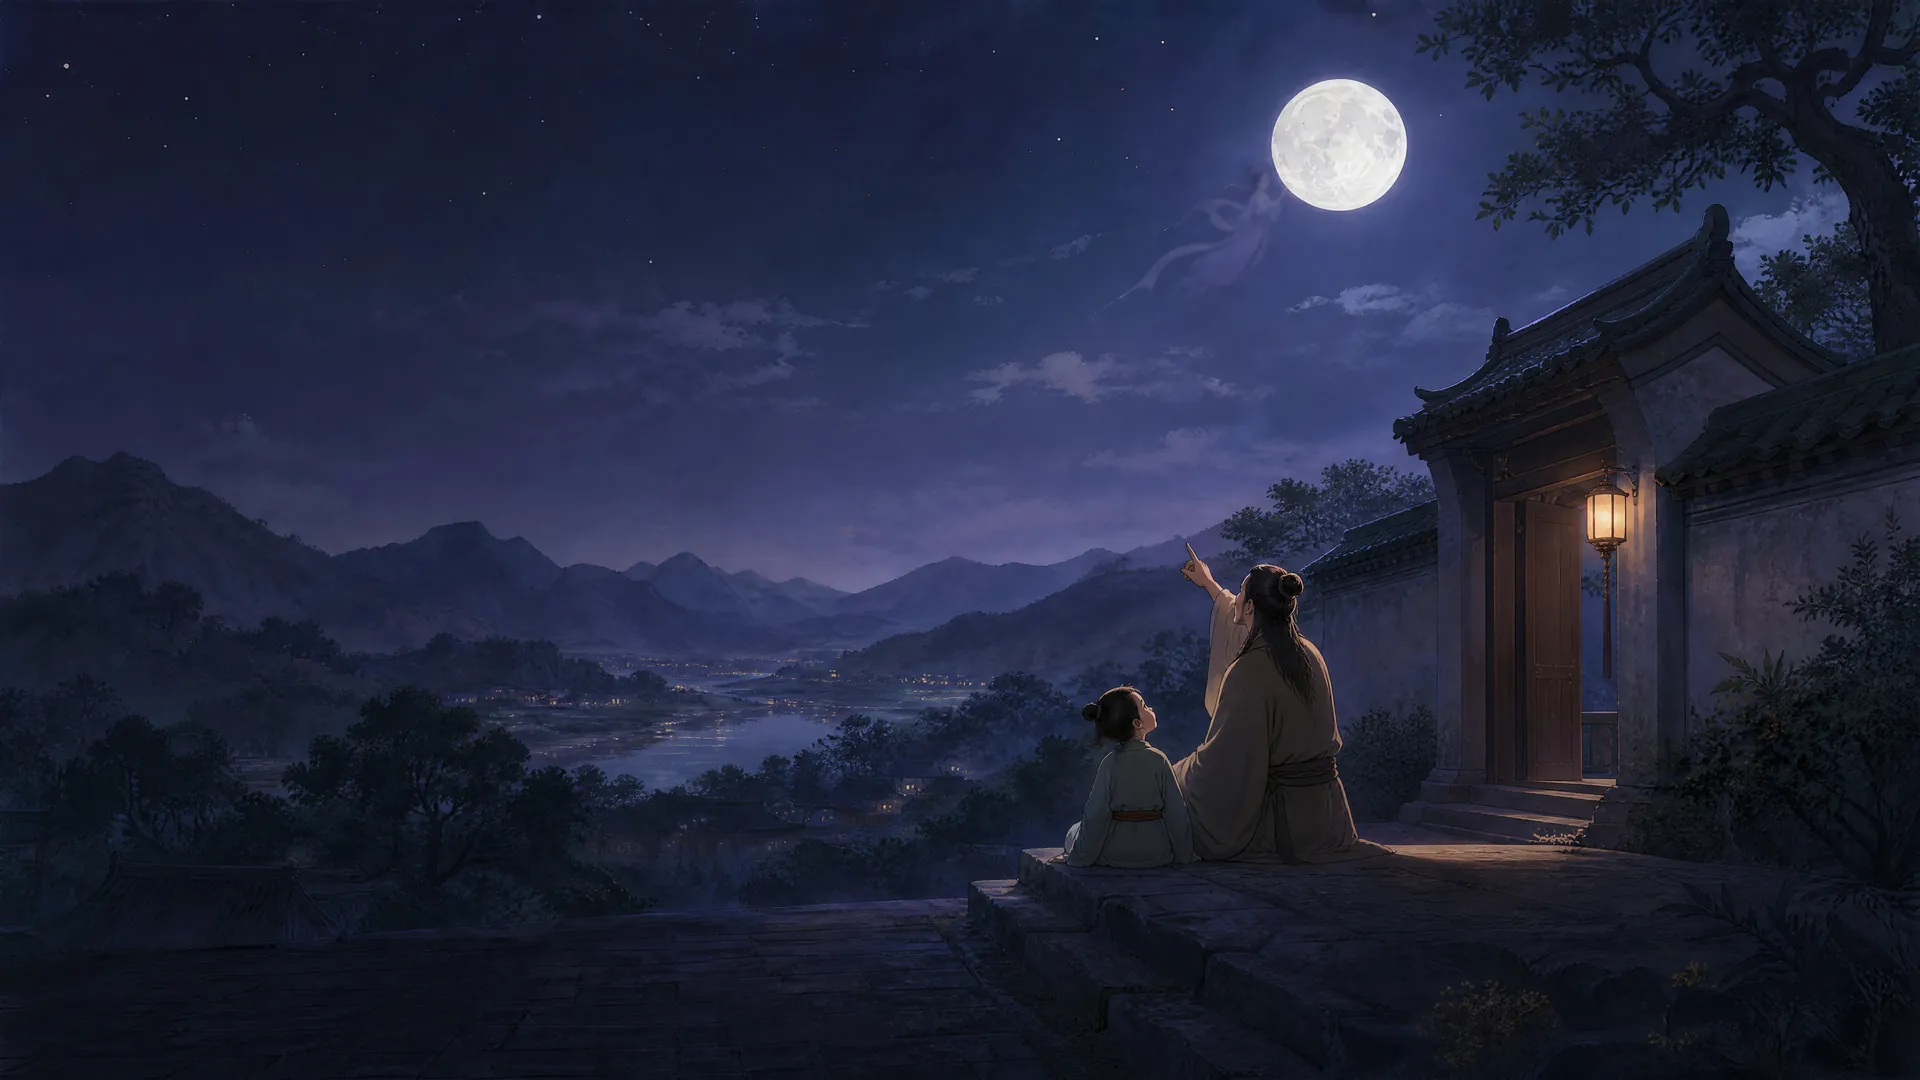
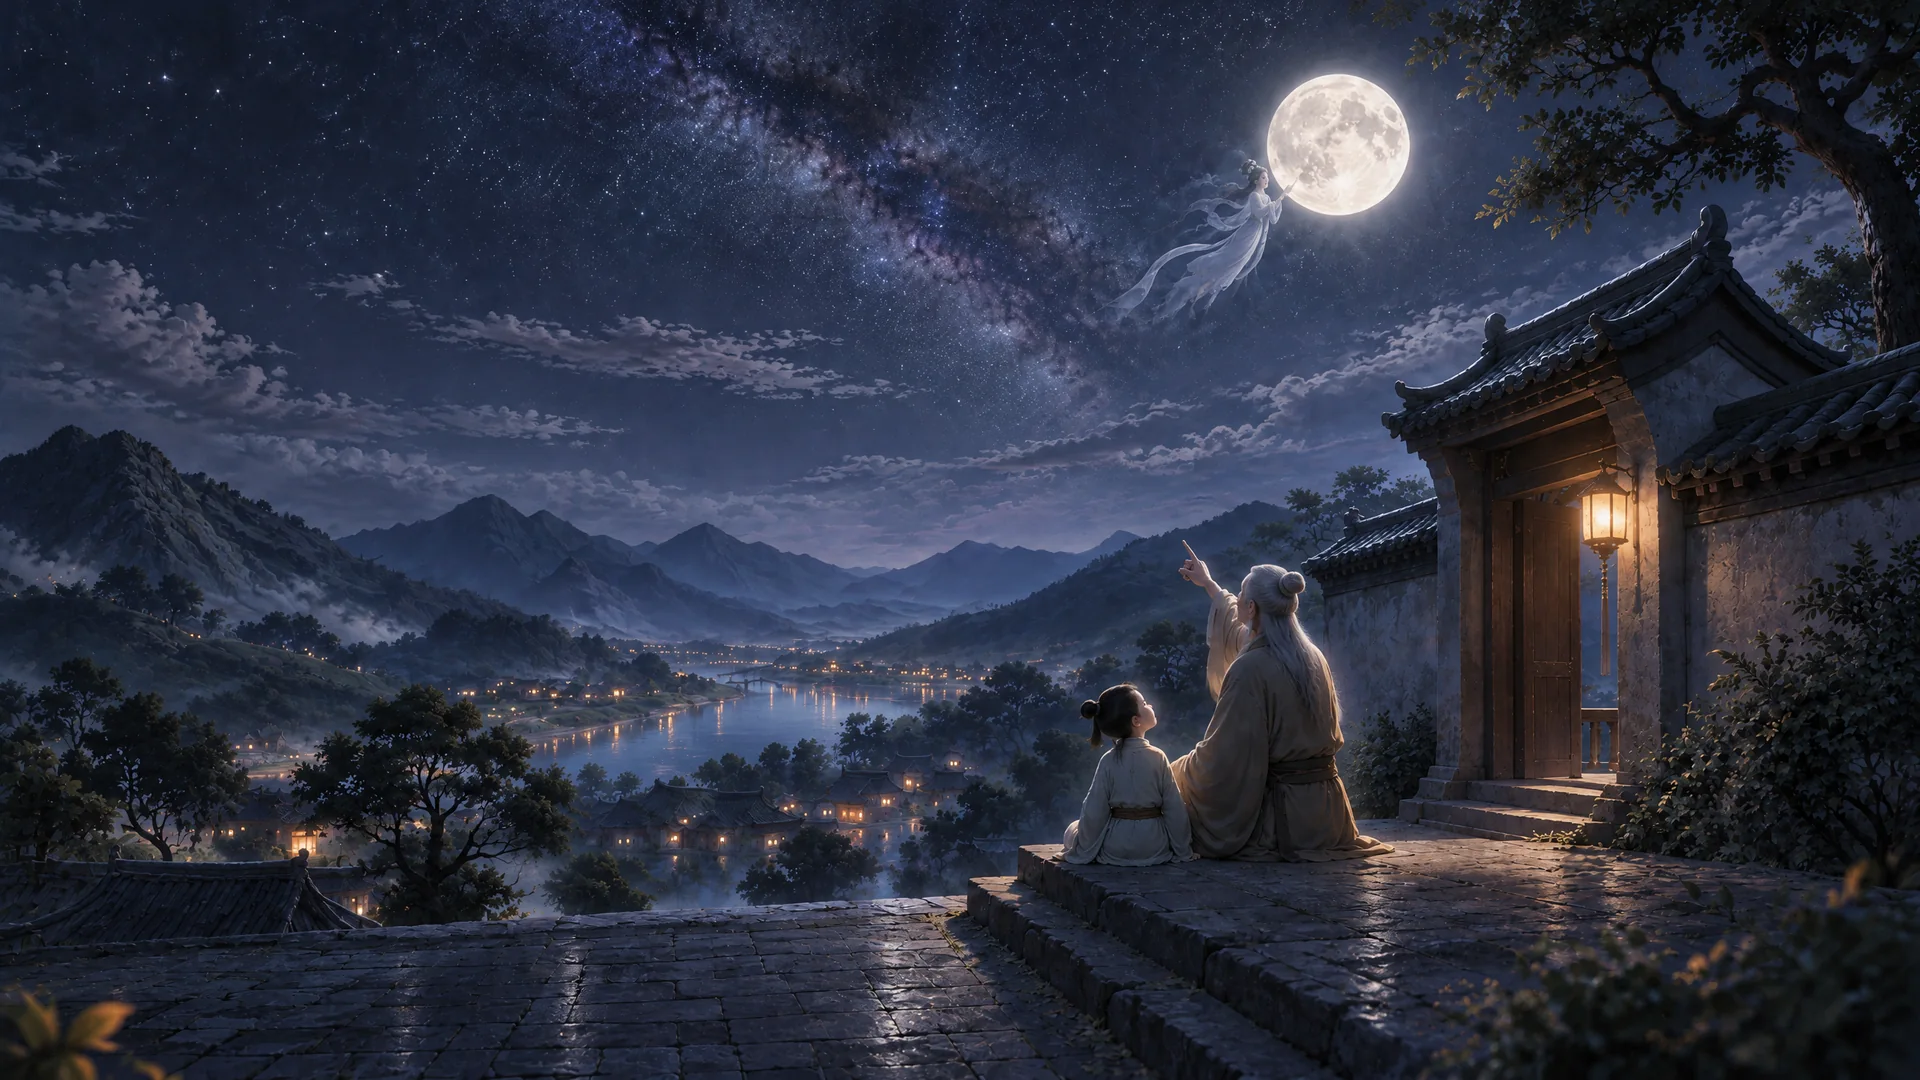
Integrate new opening courtyard and dedicated panoramic epilogue artwork

diff --git a/story.js b/story.js
@@ -1,11 +1,11 @@
 /* 整屏背景使用压缩 WebP；同名 JPG 原画保留在 assets。 */
 window.ARTWORK = {
-  cover:'assets/00-cover.webp?v=art-webp-20261016', ancient:'assets/01-ancient.webp?v=art-webp-20261016', palace:'assets/02-palace.webp?v=art-webp-20261016', palaceEmpty:'assets/02-palace-empty.webp?v=art-webp-20261016', control:'assets/03-control.webp?v=art-webp-20261016',
-  cosmos:'assets/04-cosmos.webp?v=art-webp-20261016', surface:'assets/05-surface.webp?v=art-webp-20261016', finale:'assets/06-finale.webp?v=art-webp-20261016'
+  cover:'assets/00-cover.webp?v=art-webp-20261016', ancient:'assets/01-ancient.webp?v=bookends-20261016', palace:'assets/02-palace.webp?v=art-webp-20261016', palaceEmpty:'assets/02-palace-empty.webp?v=art-webp-20261016', control:'assets/03-control.webp?v=art-webp-20261016',
+  cosmos:'assets/04-cosmos.webp?v=art-webp-20261016', surface:'assets/05-surface.webp?v=art-webp-20261016', finale:'assets/06-finale.webp?v=art-webp-20261016', epilogue:'assets/07-epilogue.webp?v=bookends-20261016'
 };
 window.CHARACTERS = {operator:'assets/characters/operator.webp?v=preload-lite-20261016',change:'assets/characters/change.webp?v=preload-lite-20261016'};
 window.CHAPTERS = ['月下的故事','地面的守候','走近真实的月亮','写给人间的回信'];
-window.LOCATIONS = {cover:'九州山河 · 月出之时',ancient:'九州山河 · 月出之时',palace:'广寒月宫 · 千载守望',palaceEmpty:'广寒月宫 · 千载守望',control:'华夏测控站 · 地月之间',cosmos:'宇宙深空 · 星河赴约',surface:'月球表面 · 今夕归期',finale:'星月同辉 · 千年梦圆'};
+window.LOCATIONS = {cover:'九州山河 · 月出之时',ancient:'九州山河 · 月出之时',palace:'广寒月宫 · 千载守望',palaceEmpty:'广寒月宫 · 千载守望',control:'华夏测控站 · 地月之间',cosmos:'宇宙深空 · 星河赴约',surface:'月球表面 · 今夕归期',finale:'星月同辉 · 千年梦圆',epilogue:'九州山河 · 千年同月'};
 // 稳定剧情 ID 用于跨版本存档；旧版本索引只在迁移时读取。
 window.LEGACY_STORY_IDS = ["ancient-prologue", "ancient-vow", "ancient-wait", "night-shift", "old-record", "first-call", "orbit", "palace-awakens", "palace-memory", "palace-memory", "broken-question", "broken-question", "repair-reason", "signal", "departure", "departure", "small-vessel", "exploration-steps", "landing", "touchdown", "paved-road", "sample", "letter-blocked", "upload", "earth-message", "so-many-lights", "closing", "finale"];
 window.STORY = [
@@ -580,7 +580,7 @@ window.STORY = [
   {
     "id": "story-continues",
     "chapter": 3,
-    "scene": "ancient",
+    "scene": "epilogue",
     "speaker": "",
     "text": "从月下讲述，到认真求索，再到一代代人的共同实践。\n这个从中国讲起的故事，有了新的篇章，也还留着写给未来的空白。",
     "portrait": null
@@ -588,7 +588,7 @@ window.STORY = [
   {
     "id": "ending",
     "chapter": 3,
-    "scene": "ancient",
+    "scene": "epilogue",
     "ending": true,
     "portrait": null
   }

diff --git a/scenes.js b/scenes.js
@@ -133,8 +133,16 @@
  }
  function build(){
   background.width=Math.round(W*devicePixelRatio);background.height=Math.round(H*devicePixelRatio);bg.setTransform(devicePixelRatio,0,0,devicePixelRatio,0,0);rng=773;
-  if(images[scene]){const im=images[scene],scale=Math.max(W/im.width,H/im.height),left=W<800?(W-im.width*scale)*(scene==='finale'?.67:.77):(W-im.width*scale)/2;bg.drawImage(im,left,(H-im.height*scale)/2,im.width*scale,im.height*scale);}
-  else {({cover:ancient,ancient,palace,palaceEmpty:c=>palace(c,false),control,cosmos,surface:c=>land(c,false),finale:c=>land(c,true)})[scene](bg);
+  if(images[scene]){const im=images[scene];
+   if(scene==='epilogue'&&W/H<.8){
+    // Preserve both figures and the full moon on portrait screens. Only the empty
+    // foreground below the railing stretches vertically to hold the ending text.
+    const sx=im.width*.31,sw=im.width*.40,split=im.height*.70,top=W*split/sw;
+    bg.drawImage(im,sx,0,sw,split,0,0,W,top);
+    bg.drawImage(im,sx,split,sw,im.height-split,0,top,W,H-top);
+   }else{const scale=Math.max(W/im.width,H/im.height),left=W<800?(W-im.width*scale)*(scene==='epilogue'?.47:scene==='finale'?.67:.77):(W-im.width*scale)/2;bg.drawImage(im,left,(H-im.height*scale)/2,im.width*scale,im.height*scale);}
+  }
+  else {({cover:ancient,ancient,epilogue:ancient,palace,palaceEmpty:c=>palace(c,false),control,cosmos,surface:c=>land(c,false),finale:c=>land(c,true)})[scene](bg);
    // Keep the text side readable inside the scene itself, without DOM image layers.
    const shade=bg.createLinearGradient(0,0,W,0);shade.addColorStop(0,'rgba(12,7,30,.56)');shade.addColorStop(.43,'rgba(12,7,30,.3)');shade.addColorStop(.72,'rgba(12,7,30,0)');bg.fillStyle=shade;bg.fillRect(0,0,W,H);
    if(W<800){let g=bg.createLinearGradient(0,0,0,H);g.addColorStop(0,'rgba(14,9,32,0)');g.addColorStop(.42,'rgba(14,9,32,.15)');g.addColorStop(.65,'rgba(14,9,32,.85)');g.addColorStop(1,'rgba(14,9,32,.95)');bg.fillStyle=g;bg.fillRect(0,0,W,H)}

diff --git a/index.html b/index.html
@@ -19,8 +19,8 @@
     <main id="content"></main>
     <footer><span id="location">九州山河 · 月出之时</span><div id="chapter-progress" aria-label="章节进度"></div><span id="page-count">一场跨越千年的赴约</span></footer>
   </div>
-  <script src="story.js?v=moon-question-20261016"></script>
-  <script src="scenes.js?v=sample-icons-20261016"></script>
+  <script src="story.js?v=bookends-20261016"></script>
+  <script src="scenes.js?v=bookends-20261016"></script>
   <script src="game-rules.js?v=preload-lite-20261016"></script>
   <script src="minigames.js?v=sample-guide-20261016"></script>
   <script src="game.js?v=ending-reveal-20261016"></script>
